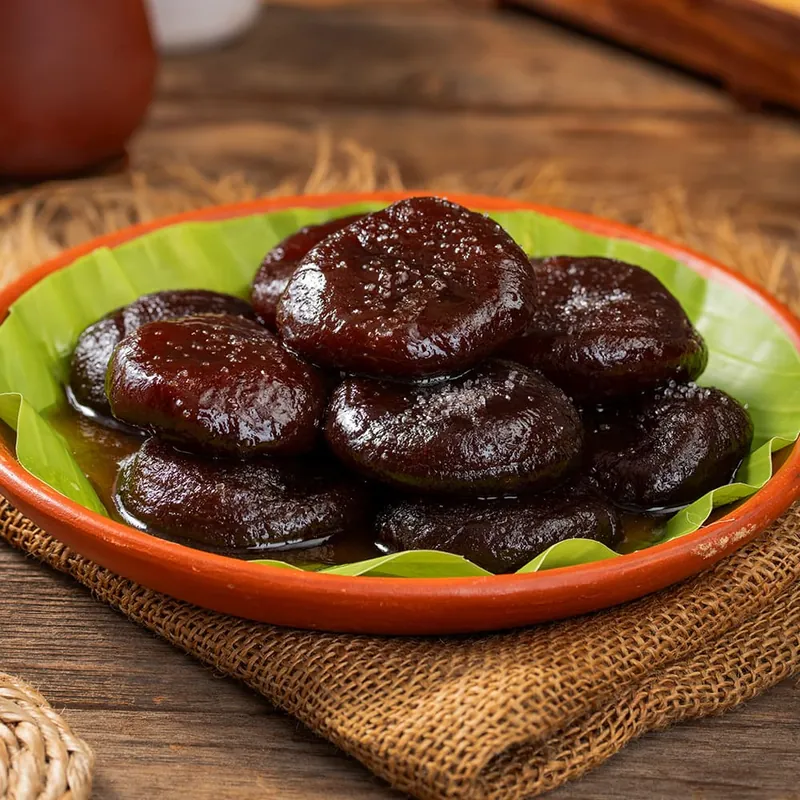
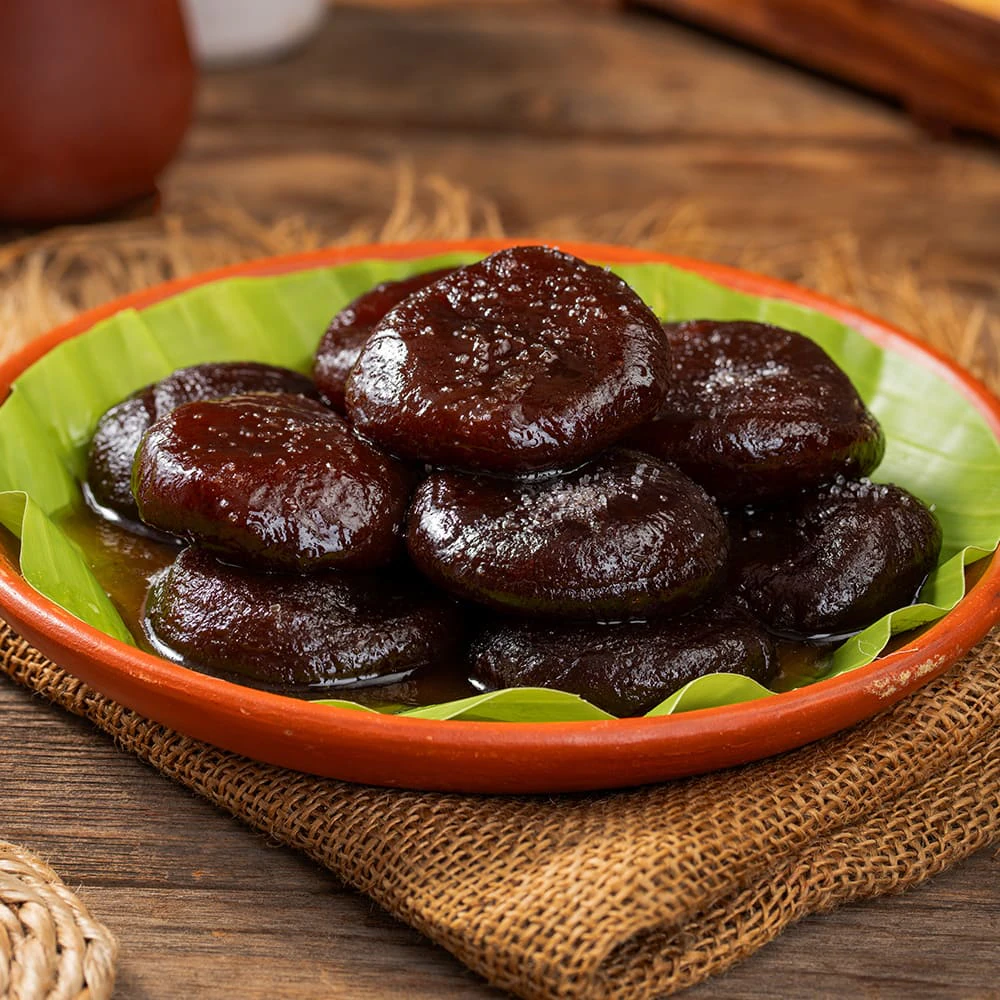
Shop fixes from the site review: sharper photos, faster pages, clearer checkout
- Photos: rebuilt from the originals at full resolution (was cut to 800px)
  as quality-90 WebP in several widths; a custom next/image loader gives
  each screen the smallest copy at least as wide as it needs, so phones and
  big screens get sharp photos without oversized downloads.
- Speed: shop pages are served ready-built from Workers static assets
  (OpenNext static-assets incremental cache + cache interception) instead
  of being rendered again on every visit.
- Checkout: the floating WhatsApp button no longer covers the form and the
  Continue button (the footer still links to WhatsApp); a $0 tax line reads
  "Sales tax (sweets are tax-free)" instead of "Sales Tax (8.25%) $0.00".
- Wording: "Made fresh every day" instead of "Baked fresh" (the sweets are
  fried or griddle-cooked).
- Admin: delivery orders show the service they were sold with (Texas,
  Express 2-day, ground rate, UPS 2nd Day Air), worked out like checkout;
  the stock screen says the assorted box holds 10 + 10.
- Cleanup: the original photos moved out of the public site folder to
  photos/originals (renamed, without spaces); exact duplicates and the
  unused Kaju Katli photo removed.

Changed region(s): [[0.1562, 0.5625, 0.25, 0.625], [0.4688, 0.5312, 0.5312, 0.5625], [0.4375, 0.5, 0.4688, 0.5312]]

diff --git a/src/app/checkout/page.tsx b/src/app/checkout/page.tsx
@@ -51,7 +51,7 @@ import {
   getDeliveryMinimumShortfall,
   groundShippingKind,
   isSupportedDeliveryState,
-  SALES_TAX_LABEL,
+  salesTaxLineLabel,
   deliveryRestriction,
   deliveryService,
   deliveryServiceLabel,
@@ -1175,7 +1175,7 @@ export default function CheckoutPage() {
               )}
               {fulfillmentType === 'delivery' && showExpressNote && expressSweetsNote}
               <div className="flex justify-between font-body text-sm text-brand-charcoal/70">
-                <span>{SALES_TAX_LABEL}</span>
+                <span>{salesTaxLineLabel(totals.tax)}</span>
                 <span>{formatCurrency(totals.tax)}</span>
               </div>
               <div className="flex justify-between font-display text-base font-bold pt-1.5 border-t border-brand-cream-dark">
@@ -1411,7 +1411,7 @@ export default function CheckoutPage() {
                     <span>FREE</span>
                   </div>
                   <div className="flex justify-between font-body text-sm text-brand-charcoal/70">
-                    <span>{SALES_TAX_LABEL}</span>
+                    <span>{salesTaxLineLabel(totals.tax)}</span>
                     <span>{formatCurrency(totals.tax)}</span>
                   </div>
                   <div className="flex justify-between font-display text-base font-bold pt-1.5 border-t border-brand-cream-dark">
@@ -1769,7 +1769,7 @@ export default function CheckoutPage() {
                 </div>
               )}
               <div className="flex justify-between font-body text-sm text-brand-charcoal/70">
-                <span>{SALES_TAX_LABEL}</span>
+                <span>{salesTaxLineLabel(totals.tax)}</span>
                 <span>{formatCurrency(totals.tax)}</span>
               </div>
               <div className="flex justify-between font-display text-base font-bold pt-1.5 border-t border-brand-cream-dark">
@@ -1834,7 +1834,7 @@ export default function CheckoutPage() {
               <p className="font-body text-sm text-brand-charcoal/80">Ships <strong>{shipWeekDays(fulfillment.shipWeek)}</strong></p>
             )}
             <div className="flex justify-between font-body text-sm text-brand-charcoal/60">
-              <span>{SALES_TAX_LABEL}</span>
+              <span>{salesTaxLineLabel(sessionInfo.tax)}</span>
               <span>{formatCurrency(sessionInfo.tax)}</span>
             </div>
             <div className="flex justify-between items-center pt-1.5 border-t border-brand-cream-dark">

diff --git a/src/lib/order-shipping-label.ts b/src/lib/order-shipping-label.ts
@@ -1,0 +1,26 @@
+import { deliveryService, groundShippingKind, shippingMethodLabel, type DeliveryService } from '@/lib/pricing';
+import { lineProduct } from '@/lib/production';
+import { stateFromAddress } from '@/lib/ship-routing';
+import type { OrderRecord } from '@/types';
+
+const ADMIN_SERVICE_LABELS: Record<DeliveryService, string> = {
+  texas: 'Texas · about 1 business day',
+  standard: 'Ground rate (customer sees "Express shipping")',
+  express: 'Express · 2-day',
+  'second-day-air': 'UPS 2nd Day Air',
+};
+
+/**
+ * Admin: the shipping service a delivery order was sold with — worked out from its
+ * state and items exactly as checkout did (deliveryService), not the stored method,
+ * which is "standard" for nearly every order. Orders saved with a legacy method
+ * (expedited / ground) keep its wording.
+ */
+export function orderShippingLabel(order: Pick<OrderRecord, 'delivery_address' | 'shipping_method' | 'order_items'>): string {
+  if (order.shipping_method === 'expedited' || order.shipping_method === 'ground') return shippingMethodLabel(order.shipping_method);
+  const products = (order.order_items ?? []).map((item) => ({ product: lineProduct(item.product_name).product, quantity: item.quantity }));
+  // An unknown (renamed or retired) product never counts as a cheaper ground-rate item.
+  const lines = products.map(({ product, quantity }) => ({ productId: product?.id ?? 'unknown', quantity }));
+  const picklesOnly = products.length > 0 && products.every(({ product }) => product?.category === 'pickles');
+  return ADMIN_SERVICE_LABELS[deliveryService(stateFromAddress(order.delivery_address), picklesOnly, groundShippingKind(lines))];
+}

diff --git a/src/lib/order-shipping-label.test.ts b/src/lib/order-shipping-label.test.ts
@@ -1,0 +1,23 @@
+import { expect, it } from 'vitest';
+import { orderShippingLabel } from './order-shipping-label';
+
+const order = (address: string, names: string[], shipping_method: 'standard' | 'ground' | 'expedited' | null = 'standard') => ({
+  delivery_address: address,
+  shipping_method,
+  order_items: names.map((product_name) => ({ product_name, quantity: 1, product_price: 0, selected_tier: null, line_total: 0 })),
+});
+
+it('shows the service each delivery was sold with, not "UPS 2nd Day Air" for everything', () => {
+  expect(orderShippingLabel(order('1 Main St\nDallas, TX 75201\nUSA', ['Guntur Malpuri']))).toBe('Texas · about 1 business day');
+  expect(orderShippingLabel(order('9 Way\nTulsa, OK 74103\nUSA', ['Guntur Malpuri']))).toBe('Express · 2-day');
+  expect(orderShippingLabel(order('9 Way\nNew York, NY 10001\nUSA', ['Guntur Malpuri']))).toBe('UPS 2nd Day Air');
+  expect(orderShippingLabel(order('9 Way\nNew York, NY 10001\nUSA', ['Assorted Box — Malpuri & Malai Khaja'])))
+    .toBe('Ground rate (customer sees "Express shipping")');
+  expect(orderShippingLabel(order('9 Way\nLos Angeles, CA 90001\nUSA', ['Chicken Pickle', 'Mutton Pickle'])))
+    .toBe('Ground rate (customer sees "Express shipping")');
+});
+
+it('keeps a legacy method’s wording, and never guesses a cheaper rate for an unknown product', () => {
+  expect(orderShippingLabel(order('9 Way\nNew York, NY 10001\nUSA', ['Guntur Malpuri'], 'ground'))).toBe('Ground — estimated 2–5 business days in transit');
+  expect(orderShippingLabel(order('9 Way\nNew York, NY 10001\nUSA', ['Retired Sweet']))).toBe('UPS 2nd Day Air');
+});

diff --git a/src/components/admin/OrderPanel.tsx b/src/components/admin/OrderPanel.tsx
@@ -4,7 +4,7 @@ import { useEffect, type ReactNode } from 'react';
 import { Package, Phone, Mail, Save, X } from 'lucide-react';
 import { formatCurrency } from '@/lib/utils';
 import { d1TimestampToBusinessDate } from '@/lib/date';
-import { shippingMethodLabel } from '@/lib/pricing';
+import { orderShippingLabel } from '@/lib/order-shipping-label';
 import { PICKUP_LOCATIONS } from '@/data/products';
 import { adminShipWeekChoices, shipWeekDays } from '@/lib/delivery-limit';
 import AdminNoteCell from '@/components/admin/AdminNoteCell';
@@ -124,9 +124,7 @@ export default function OrderPanel({
               <section aria-label="Delivery address">
                 <Heading>Ship to</Heading>
                 <p className="text-brand-charcoal/80 whitespace-pre-line">{order.delivery_address || 'No address'}</p>
-                {order.shipping_method && (
-                  <p className="text-brand-charcoal/60 mt-1">{shippingMethodLabel(order.shipping_method)}</p>
-                )}
+                <p className="text-brand-charcoal/60 mt-1">{orderShippingLabel(order)}</p>
               </section>
 
               <section>

diff --git a/src/data/photo-widths.ts b/src/data/photo-widths.ts
@@ -1,0 +1,64 @@
+// Generated by scripts/build-photos.mjs — do not edit by hand.
+/** Widths available for each product photo; the largest is the file without a width suffix. */
+export const PHOTO_WIDTHS: Record<string, readonly number[]> = {
+  "/images/web/bobbatlu.webp": [
+    480,
+    640,
+    960,
+    1280,
+    1320
+  ],
+  "/images/web/chicken-pickle.webp": [
+    480,
+    640,
+    960,
+    1024
+  ],
+  "/images/web/mutton-pickle.webp": [
+    480,
+    640,
+    960,
+    1024
+  ],
+  "/images/web/prawns-pickle.webp": [
+    480,
+    640,
+    960,
+    1024
+  ],
+  "/images/web/gift-box.webp": [
+    480,
+    640,
+    960,
+    1200
+  ],
+  "/images/web/guntur-malpuri.webp": [
+    480,
+    640,
+    960,
+    1080
+  ],
+  "/images/web/nellore-malai-khaja.webp": [
+    480,
+    640,
+    960,
+    1000
+  ],
+  "/images/web/pala-kova.webp": [
+    480,
+    640,
+    960,
+    1194
+  ],
+  "/images/web/texas-limited-gift-box-closed.webp": [
+    480,
+    640,
+    768
+  ],
+  "/images/web/texas-limited-gift-box-open.webp": [
+    480,
+    640,
+    960,
+    1200
+  ]
+};

diff --git a/src/app/admin/orders/page.tsx b/src/app/admin/orders/page.tsx
@@ -13,7 +13,7 @@ import {
 } from 'lucide-react';
 import { formatCurrency } from '@/lib/utils';
 import { d1TimestampToBusinessDate } from '@/lib/date';
-import { shippingMethodLabel } from '@/lib/pricing';
+import { orderShippingLabel } from '@/lib/order-shipping-label';
 import { PICKUP_LOCATIONS } from '@/data/products';
 import { productionSheet } from '@/lib/production';
 import { adminShipWeekChoices, shipWeekDays } from '@/lib/delivery-limit';
@@ -872,9 +872,9 @@ export default function AdminOrdersPage() {
                       >
                         {order.order_type === 'pickup' ? 'Pickup' : 'Delivery'}
                       </span>
-                      {order.order_type === 'delivery' && order.shipping_method && (
+                      {order.order_type === 'delivery' && (
                         <span className="block font-body text-[11px] text-brand-charcoal/50 mt-1">
-                          {shippingMethodLabel(order.shipping_method)}
+                          {orderShippingLabel(order)}
                         </span>
                       )}
                     </td>

diff --git a/src/app/layout.tsx b/src/app/layout.tsx
@@ -29,7 +29,7 @@ export const metadata: Metadata = {
     template: '%s | Amamma Jaadi',
   },
   description:
-    'Premium South Indian sweets, pickles & gift boxes in Dallas, Texas. Freshly baked daily with pure ghee, A2 milk & organic ingredients. Order Bobbatlu, Malai Khaja, Kova & more.',
+    'Premium South Indian sweets, pickles & gift boxes in Dallas, Texas. Made fresh daily with pure ghee, A2 milk & organic ingredients. Order Bobbatlu, Malai Khaja, Kova & more.',
   keywords: [
     'South Indian sweets Dallas',
     'Authentic Indian sweets Texas',
@@ -54,7 +54,7 @@ export const metadata: Metadata = {
   twitter: {
     card: 'summary',
     title: 'Amamma Jaadi — Authentic South Indian Sweets',
-    description: 'Freshly baked traditional sweets & pickles delivered in Dallas, TX.',
+    description: 'Freshly made traditional sweets & pickles: free pickup in Dallas, delivery across the USA.',
     images: [SHARE_IMAGE.url],
   },
   robots: { index: true, follow: true },

diff --git a/src/components/layout/WhatsAppButton.test.ts b/src/components/layout/WhatsAppButton.test.ts
@@ -1,0 +1,21 @@
+// @vitest-environment jsdom
+import { act, createElement } from 'react';
+import { createRoot } from 'react-dom/client';
+import { expect, it, vi } from 'vitest';
+import WhatsAppButton from './WhatsAppButton';
+
+const nav = vi.hoisted(() => ({ pathname: '/' }));
+vi.mock('next/navigation', () => ({ usePathname: () => nav.pathname }));
+
+it('floats on shop pages but stays off checkout, where it covered the Continue button', async () => {
+  vi.stubGlobal('IS_REACT_ACT_ENVIRONMENT', true);
+  const host = document.createElement('div');
+  const root = createRoot(host);
+  for (const [pathname, shown] of [['/', true], ['/sweets', true], ['/checkout', false]] as const) {
+    nav.pathname = pathname;
+    await act(async () => root.render(createElement(WhatsAppButton)));
+    expect(Boolean(host.querySelector('a[aria-label="Chat on WhatsApp"]'))).toBe(shown);
+  }
+  await act(async () => root.unmount());
+  vi.unstubAllGlobals();
+});

diff --git a/src/lib/image-loader.test.ts b/src/lib/image-loader.test.ts
@@ -1,0 +1,16 @@
+import { expect, it } from 'vitest';
+import photoLoader from './image-loader';
+
+it('serves the smallest pre-built photo at least as wide as the screen needs, never a blurrier one', () => {
+  const src = '/images/web/bobbatlu.webp'; // built at 480, 640, 960, 1280 and 1320 (full)
+  expect(photoLoader({ src, width: 384 })).toBe('/images/web/bobbatlu-480.webp');
+  expect(photoLoader({ src, width: 640 })).toBe('/images/web/bobbatlu-640.webp');
+  expect(photoLoader({ src, width: 750 })).toBe('/images/web/bobbatlu-960.webp');
+  expect(photoLoader({ src, width: 1200 })).toBe('/images/web/bobbatlu-1280.webp');
+  expect(photoLoader({ src, width: 1300 })).toBe('/images/web/bobbatlu.webp');
+  expect(photoLoader({ src, width: 3840 })).toBe('/images/web/bobbatlu.webp');
+});
+
+it('leaves other images alone', () => {
+  expect(photoLoader({ src: '/images/web/logo-192.webp', width: 640 })).toBe('/images/web/logo-192.webp');
+});

diff --git a/src/data/products.ts b/src/data/products.ts
@@ -90,7 +90,7 @@ export const PRODUCTS: Product[] = [
     imageFit: 'contain',
     quantityOptions: [15, 25, 50],
     inStock: true,
-    prepNotice: 'Baked fresh every day.',
+    prepNotice: 'Made fresh every day.',
     prepNoticeTone: 'fresh',
     tags: ['traditional', 'andhra', 'festival'],
   },
@@ -107,7 +107,7 @@ export const PRODUCTS: Product[] = [
     image: '/images/web/nellore-malai-khaja.webp',
     quantityOptions: [15, 25, 50],
     inStock: true,
-    prepNotice: 'Baked fresh every day.',
+    prepNotice: 'Made fresh every day.',
     prepNoticeTone: 'fresh',
     tags: ['traditional', 'andhra', 'festival', 'premium'],
   },
@@ -138,7 +138,7 @@ export const PRODUCTS: Product[] = [
     }],
     quantityOptions: [20],
     inStock: true,
-    prepNotice: 'Baked fresh every day.',
+    prepNotice: 'Made fresh every day.',
     prepNoticeTone: 'fresh',
     tags: ['traditional', 'andhra', 'festival', 'gifting'],
   },

diff --git a/src/lib/image-loader.ts b/src/lib/image-loader.ts
@@ -1,0 +1,18 @@
+'use client';
+
+import { PHOTO_WIDTHS } from '../data/photo-widths';
+
+/**
+ * next/image loader (next.config.ts → images.loaderFile). Workers don't run Next's
+ * image optimizer, so product photos are pre-built in several widths by
+ * scripts/build-photos.mjs. For each width the browser asks for, this returns the
+ * smallest pre-built copy at least that wide — never a blurrier one — or the full
+ * original when nothing is wider. Other images (logo, icons) are served as they are.
+ */
+export default function photoLoader({ src, width }: { src: string; width: number; quality?: number }): string {
+  const widths = PHOTO_WIDTHS[src];
+  if (!widths) return src;
+  const largest = widths[widths.length - 1];
+  const pick = widths.find((w) => w >= width) ?? largest;
+  return pick === largest ? src : src.replace(/\.webp$/, `-${pick}.webp`);
+}

diff --git a/open-next.config.ts b/open-next.config.ts
@@ -1,3 +1,15 @@
 import { defineCloudflareConfig } from '@opennextjs/cloudflare';
+import staticAssetsIncrementalCache from '@opennextjs/cloudflare/overrides/incremental-cache/static-assets-incremental-cache';
 
-export default defineCloudflareConfig();
+/**
+ * Shop pages are built once per release (their content lives in the code), so serve
+ * the ready-built HTML from Workers static assets instead of rendering it again for
+ * every visit. Read-only: pages change only with a new deploy, which is how they
+ * change today. Stock, sold-out dates and delivery limits load in the browser from
+ * /api, so they stay live. `enableCacheInterception` answers those pages before
+ * the Next.js server even starts.
+ */
+export default defineCloudflareConfig({
+  incrementalCache: staticAssetsIncrementalCache,
+  enableCacheInterception: true,
+});
